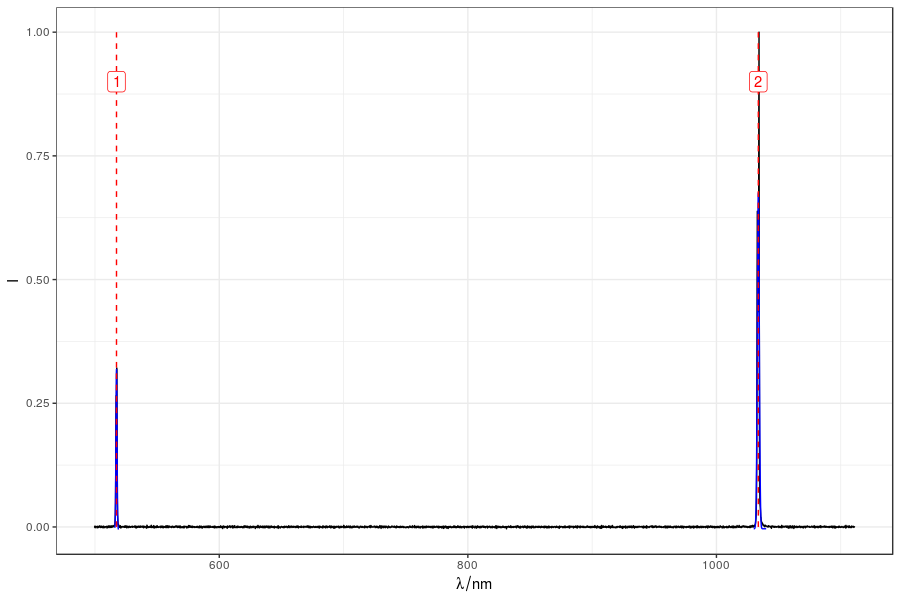
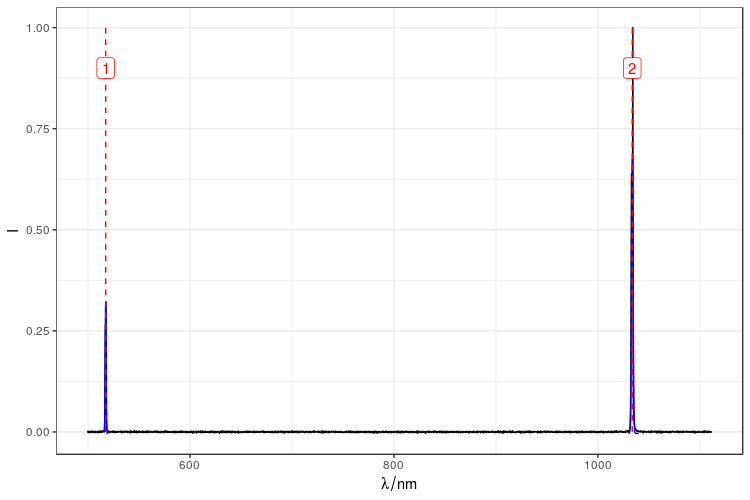
Evaluation

diff --git a/texfiles/fp_evaluation.tex b/texfiles/fp_evaluation.tex
@@ -2,8 +2,10 @@
 \section{Evaluation}
 \subsection{Calibration}
 \subsubsection{Laser Power}
+To set the power of the laser to a reasonable value a calibration curve was recorded which shows the actual laser power at the position of the microstrip plotted over the output power set in the GUI. This curve is shown in figure \ref{fig:power}.\\
 
-\begin{figure}
+Using this graph the output power was set to $P_\text{out}=20\,\mathrm{mW}$ which corresponds to an actual laser power of $P_\text{act}=(27.4\pm1.4)\,\mathrm{mW}$.
+\begin{figure}[hb]
 	\centering
 	\includegraphics[width=\textwidth]{../figures/powercal.png}
 	\caption{Measurement of the laser power}
@@ -11,9 +13,14 @@
 \end{figure}
 
 \subsubsection{Optical Spectrometer}
+The optical spectrometer is later used to record the fluorescence spectrum of the diamond. To calibrate the optical spectrometer we first record the spectrum of visible light and compare the identified Fraunhofer lines with their literature values. The recorded spectrum is shown in figure \ref{fig:sunspectrum} and the values are given in table \ref{tab:fraunhofer}.\\
+
+Since only small statistical deviations in both directions could be found there was no need to calculate a conversion factor and the values given from the optical spectrometer were verified. \\
+
+The optical spectrometer was also used to get the actual wavelength of the laser which was determined in figure \ref{fig:laserspectrum} to be $\lambda=(517.3\pm0.2)\,\mathrm{nm}$.
 \begin{figure}
 	\centering
-	\includegraphics[width=\textwidth]{../figures/sunspectrum.png}
+	\includegraphics[width=0.8\textwidth]{../figures/sunspectrum.png}
 	\caption[Spectrum of the sun with identified Fraunhofer lines]{Spectrum of the sun with identified Fraunhofer lines for calibration of the optical spectrometer}
 	\label{fig:sunspectrum}
 \end{figure}
@@ -36,13 +43,14 @@
 
 \begin{figure}
 	\centering
-	\includegraphics[width=\textwidth]{../figures/laserspectrum.png}
+	\includegraphics[width=0.8\textwidth]{../figures/laserspectrum.png}
 	\caption[Spectrum of the laser]{Spectrum of the laser with identified peaks at the wavelengths $\lambda=(517.3\pm0.2)\,\mathrm{nm}$ and $\lambda=(1033.7\pm0.4)\,\mathrm{nm}$}
 	\label{fig:laserspectrum}
 \end{figure}
 
 \subsubsection{ODMR calibrations}
 \paragraph{Shielding}
+To improve the ODMR signal and avoid noise generated by the microwaves a shielding cage was built around the APD. In figure \ref{fig:odmr-shield} the effect of this shielding cage on the ODMR spectrum is shown.
 \begin{figure}
 	\begin{subfigure}{0.5\textwidth}
 		\includegraphics[width=\textwidth]{../figures/odmr-cal-1.png}
@@ -90,7 +98,7 @@ Later in this document all spectra are converted by this function and therefore 
 \subsection{Fluorescence Spectrum}
 \begin{figure}
 	\centering
-	\includegraphics[width=\textwidth]{../figures/fluorescence.png}
+	\includegraphics[width=0.8\textwidth]{../figures/fluorescence.png}
 	\caption[Fluorescence spectrum of the diamond]{Fluorescence spectrum of the diamond with the zero phonon line (red line) at $\lambda=(645\pm3)\,\mathrm{nm}$. The spectrum was achieved by averaging over 10 measurements.}
 	\label{fig:fluorescence}
 \end{figure}
@@ -105,7 +113,7 @@ Later in this document all spectra are converted by this function and therefore 
 
 
 \begin{figure}
-	\centering
+	%\centering
 	\begin{subfigure}{0.5\textwidth}
 		\includegraphics[width=\textwidth]{../figures/odmr-bx.png}
 		\subcaption{Magnetic field in $x$-Direction}
@@ -121,3 +129,17 @@ Later in this document all spectra are converted by this function and therefore 
 	\caption{ODMR spectrum within a magnetic field}
 	\label{fig:odmr-magnet}
 \end{figure}
+
+\begin{table}
+	\centering
+	\begin{tabular}{c|c|c}
+		&Resonance 1&Resonance 2\\\hline
+		$f_x / \mathrm{MHz}$&$6.2\pm0.5$&-\\
+		$f_y / \mathrm{MHz}$&$34.7\pm0.4$&$66.5\pm0.4$\\\hline
+		$B_x / \mathrm{mT}$&$0.214\pm0.018$&-\\
+		$B_y / \mathrm{mT}$&$1.197\pm0.014$&$2.297\pm0.014$\\\hline
+		$d_x/d$&$0.036\pm0.003$&-\\
+		$d_y/d$&$0.203\pm0.002$&$0.389\pm0.002$
+	\end{tabular}
+	\caption{Resonance Pairs}
+\end{table}

diff --git a/texfiles/fp_set_up_and_procedure.tex b/texfiles/fp_set_up_and_procedure.tex
@@ -1,3 +1,4 @@
+% !TeX spellcheck = en_GB
 \section{Experimental Set-up and Procedure}
 \subsection{Set-Up}
 
